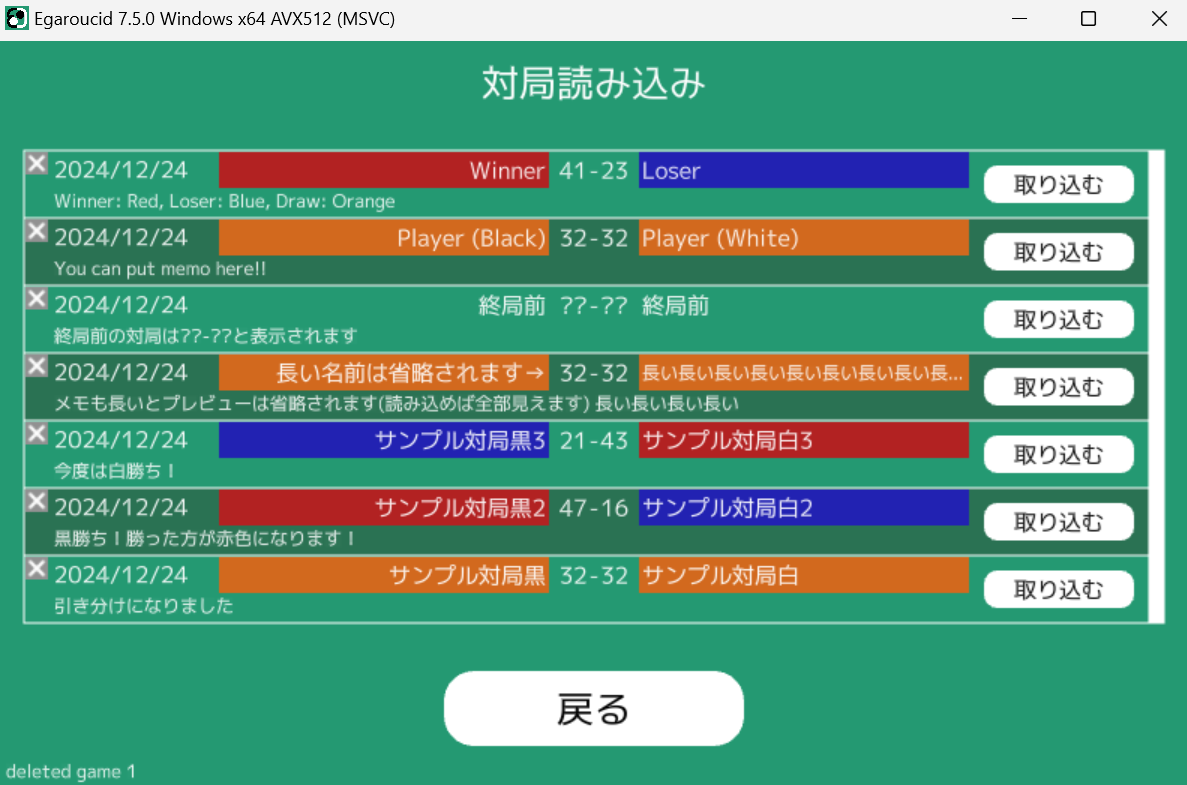
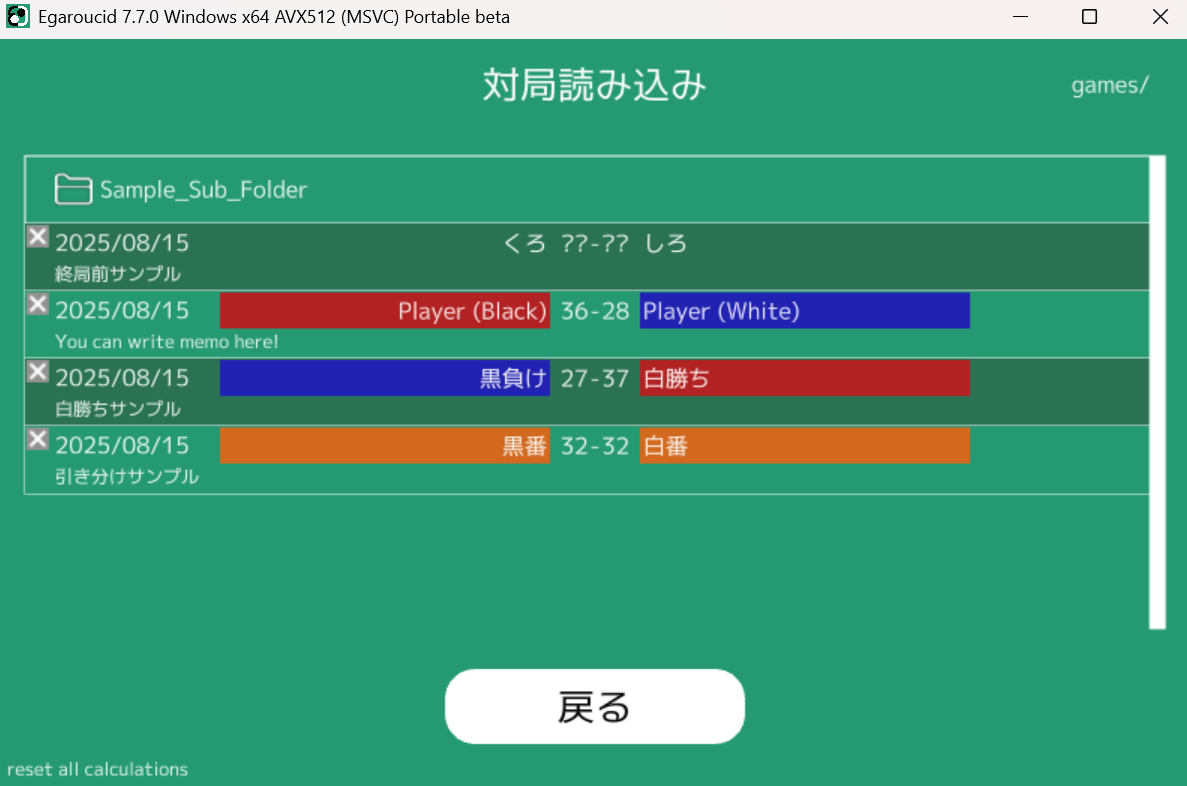
update usage: game save function

diff --git a/web_resources/ja/usage/index.md b/web_resources/ja/usage/index.md
@@ -908,15 +908,19 @@ GGFの例: <code>(;GM[Othello]PC[]PB[b_player]PW[w_player]RE[-32]TI[0]TY[8]BO[8 
 
 Egaroucidは<a href="#入出力_出力 > 対局保存">対局を独自形式で保存する</a>ことができます。その対局を読み込む機能です。
 
-保存日時、対局者、結果、メモがまとまって表示されるので、取り込むボタンで取り込めます。また、左上のバツ印を押すと対局を削除できます。
+保存日時、対局者、結果、メモがまとまって表示されるので、ダブルクリックすると読み込めます。また、左上のバツ印を押すと対局を削除できます。
 
 対局数が多い場合にはスクロールできます。マウスホイールのほか、上下ボタンやPage Up、Page Downでもスクロールできます。
 
-プレイヤ名やメモが長い場合、適宜省略されます。また、勝ったプレイヤの名前は赤、負けたプレイヤの名前は青で表示されます。引き分けは橙です。終局まで保存されていない対局はスコアが??-??と表示され、名前の背景色は特にありません。
+バージョン7.7.0からはフォルダ分けに対応しました。フォルダ間の移動はフォルダのダブルクリックで行えます。フォルダ作成機能は<a href="#入出力_出力 > 対局保存">対局保存</a>機能の中にあります。また、フォルダや対局をドラッグ&ドロップで任意のフォルダに移動できます。
+
+プレイヤ名やメモが長い場合、適宜省略されます。また、勝ったプレイヤの名前は赤、負けたプレイヤの名前は青で表示されます。引き分けは橙です。終局まで保存されていない対局はスコアが??-??と表示され、名前の背景色がつきません。
 
 <div class="centering_box">
     <img class="pic2" src="img/import_game.png">
+    <img class="pic2" src="img/import_game_dd.png">
 </div>
+
 
 
 ### 入力 > ビットボード入力
@@ -1000,17 +1004,20 @@ Ctrl+Cをショートカットとして割り当ててあります。
 
 対局をEgaroucid独自形式で保存します。最終結果やグラフの情報も自動で保存されます。
 
-黒番と白番の名前とメモを書き、「本筋を保存」ボタンで保存できます。なお、「設定局面までを保存」では、<a href="#画面の見方_盤面">盤面エリア</a>に表示されている局面までの情報を保存できます。ですから、局面を戻してからこのボタンで対局を保存すると、戻したところまでが保存されます。
+黒番と白番の名前とメモを書き、「本筋を保存」ボタンで保存できます。なお、「設定局面までを保存」では、<a href="#画面の見方_盤面">盤面エリア</a>に表示されている局面までの情報を保存できます。つまり、局面を戻してからこのボタンで対局を保存すると、戻したところまでが保存されます。
 
 Ctrl+Vによってコピペが可能です。ショートカットキーとして、Tabキーで入力エリア切り替え、Escで「戻る」操作ができます。バージョン6.5.2からカーソル移動に対応しました。メモの入力は10000文字までの制限があります。
 
+バージョン7.7.0からは任意にフォルダを作れるようになりました。保存先フォルダを選択して、「ここに保存」ボタンを押してください。フォルダはダブルクリックで移動できます。また、フォルダや対局情報をドラッグ&ドロップで任意のフォルダに移動できます。
+
 対局を読み込みたい場合は<a href="#入出力_入力 > 対局読み込み">対局読み込み</a>から一覧を確認し、読み込んでください。
+
+ドキュメントフォルダ内のEgaroucid/gamesフォルダにデータが保存されています。
 
 <div class="centering_box">
     <img class="pic2" src="img/output_game.png">
+    <img class="pic2" src="img/output_game_new_folder.png">
 </div>
-
-ドキュメントフォルダ内のEgaroucid/gamesフォルダにデータが保存されます。
 
 
 
